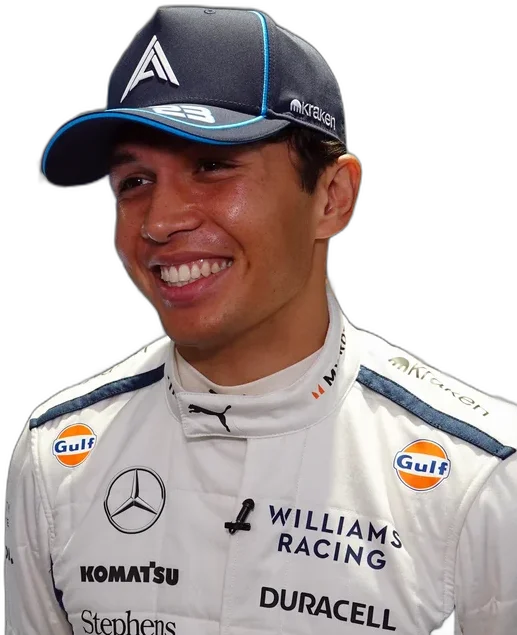
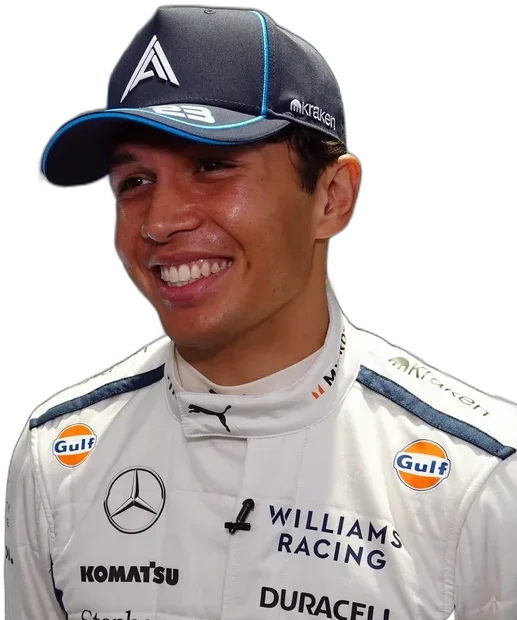
V2: fade cutout crop edge, normalize framing across drivers
External design critique (accurate): the hard rectangular photo-crop edge
cutting through arms/torso at inconsistent points per driver read as broken,
not intentional — RUS and HAM in particular cropped at different body
points, so the podium didn't read as a matched set.

- DriverCutout: bottom 30% now fades to transparent via mask-image instead
  of a hard crop edge, so whatever body point a photo happens to end at
  dissolves into the card background.
- Normalized every cutout to a consistent ~1.2 height/width bust-portrait
  ratio, anchored from the top (never stretches an already-tighter photo).
  ANT went from a torso-and-crossed-arms shot to a consistent shoulders-up
  frame matching the others.
- driver_cutouts.py bakes both fixes in for future runs (crop + fade is
  applied in code, not just this one-off correction).

diff --git a/frontend/src/components/Driver.tsx b/frontend/src/components/Driver.tsx
@@ -107,7 +107,14 @@ export function DriverCutout({
     <img
       src={url}
       alt=""
-      style={{ height }}
+      style={{
+        height,
+        // Fade the bottom into transparency instead of a hard photo-crop
+        // edge — the crop point still varies a little per source photo, so
+        // this dissolves it rather than cutting straight through a torso.
+        WebkitMaskImage: "linear-gradient(to bottom, black 70%, transparent 100%)",
+        maskImage: "linear-gradient(to bottom, black 70%, transparent 100%)",
+      }}
       className={`w-auto object-contain ${className}`}
       onError={() => setFailed(true)}
     />

diff --git a/src/f1se/standalone/driver_cutouts.py b/src/f1se/standalone/driver_cutouts.py
@@ -34,6 +34,7 @@ from f1se.standalone.driver_photos import (
 
 OUT_DIR = PROJECT_ROOT / "frontend" / "public" / "drivers" / "cutouts"
 MAX_HEIGHT = 640  # cap output size — these are hero-sized, not thumbnails, but no need for huge files
+CROP_RATIO = 1.2  # target height/width — normalizes bust-portrait framing across source photos
 
 
 def build_cutout(code: str, name: str) -> bool:
@@ -73,6 +74,15 @@ def build_cutout(code: str, name: str) -> bool:
     bbox = cutout.split()[-1].getbbox()
     if bbox:
         cutout = cutout.crop(bbox)
+
+    # Normalize to a consistent bust-portrait ratio, anchored from the top —
+    # source photos crop at wildly different points (some waist-up, some
+    # shoulders-up), which reads as a mismatched set once several sit side
+    # by side. Never stretches a photo that's already tighter than this.
+    w, h = cutout.size
+    target_h = round(w * CROP_RATIO)
+    if h > target_h:
+        cutout = cutout.crop((0, 0, w, target_h))
 
     w, h = cutout.size
     if h > MAX_HEIGHT:
